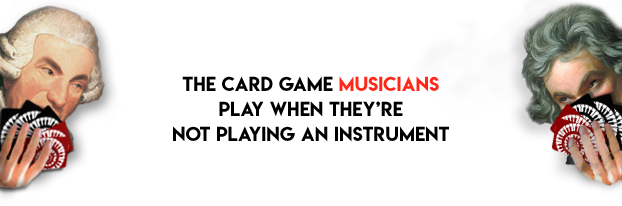
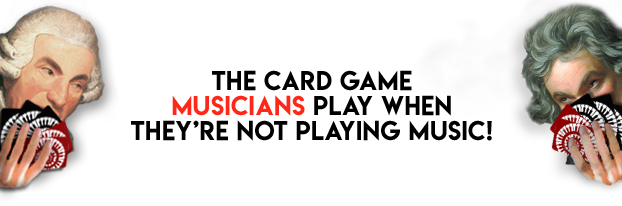
updated faq

Changed region(s): [[0.2138, 0.3204, 0.7942, 0.699]]

diff --git a/index.html b/index.html
@@ -12,12 +12,12 @@
 
         <title>Lord of the Chords: The Punniest Music Theory Card Game!</title>
         <!-- <meta name="google-site-verification" content="y2W6f2tZjhyp_sY9iX8SLgE0QZp7SNofvZZHygK625I" /> -->
-        <meta name="description" CONTENT="Lord of the Chords is the punniest card game musicians play when they're not playing music! Apply real music theory knowledge - stay sharp, and don't fall flat!">
+        <meta name="description" CONTENT="Lord of the Chords is the card game musicians play when they're not playing music! Apply real music theory knowledge - stay sharp, and don't fall flat!">
         <meta name="keywords" CONTENT="theory, music, cards, games, kickstarter, funniest, classical, jokes, bach, beethoven, mozart, chopin, debussy">
         <meta name="p:domain_verify" content="a8dcbfca132f4d8a70738dd1c179d3b9"/>
         <link rel="icon" href="images/favicon.png" type="image/png">
         <meta property="og:title" content="Lord of the Chords: The Punniest Music Theory Card Game!">
-        <meta property="og:description" content="The card game musicians play when they're not playing their instruments!">
+        <meta property="og:description" content="The card game musicians play when they're not playing music!">
         <meta property="og:image" content="http://lordofthechords.com/images/preview.jpg">
         <meta property="og:url" content="http://www.lordofthechords.com">
         <!-- Google Tag Manager -->
@@ -300,6 +300,7 @@
                             <!-- <h3 class="collapse-icon">+</h3> -->
                         </div>
                         <div class="faqAnswer" style="margin:10px;">
+                            Lord of the Chords is a card game for musicians! Or if you belong in any of the three categories below:
                             1. Music <span style="color: red">Lovers!</span>
                                 <br>
                             2. People who are <span class="highlight">serious</span> about learning music theory!
